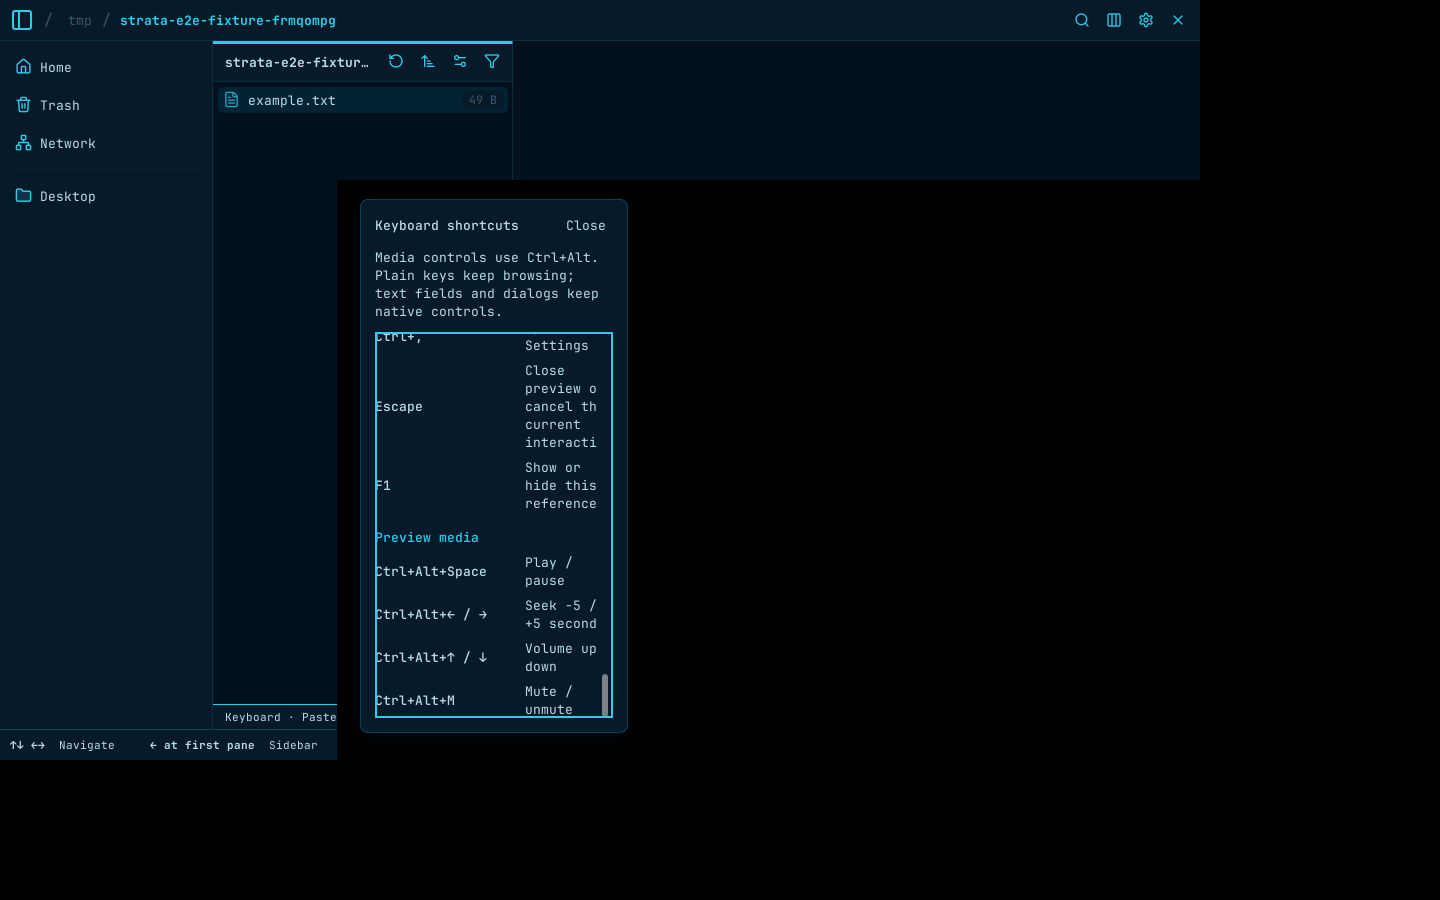
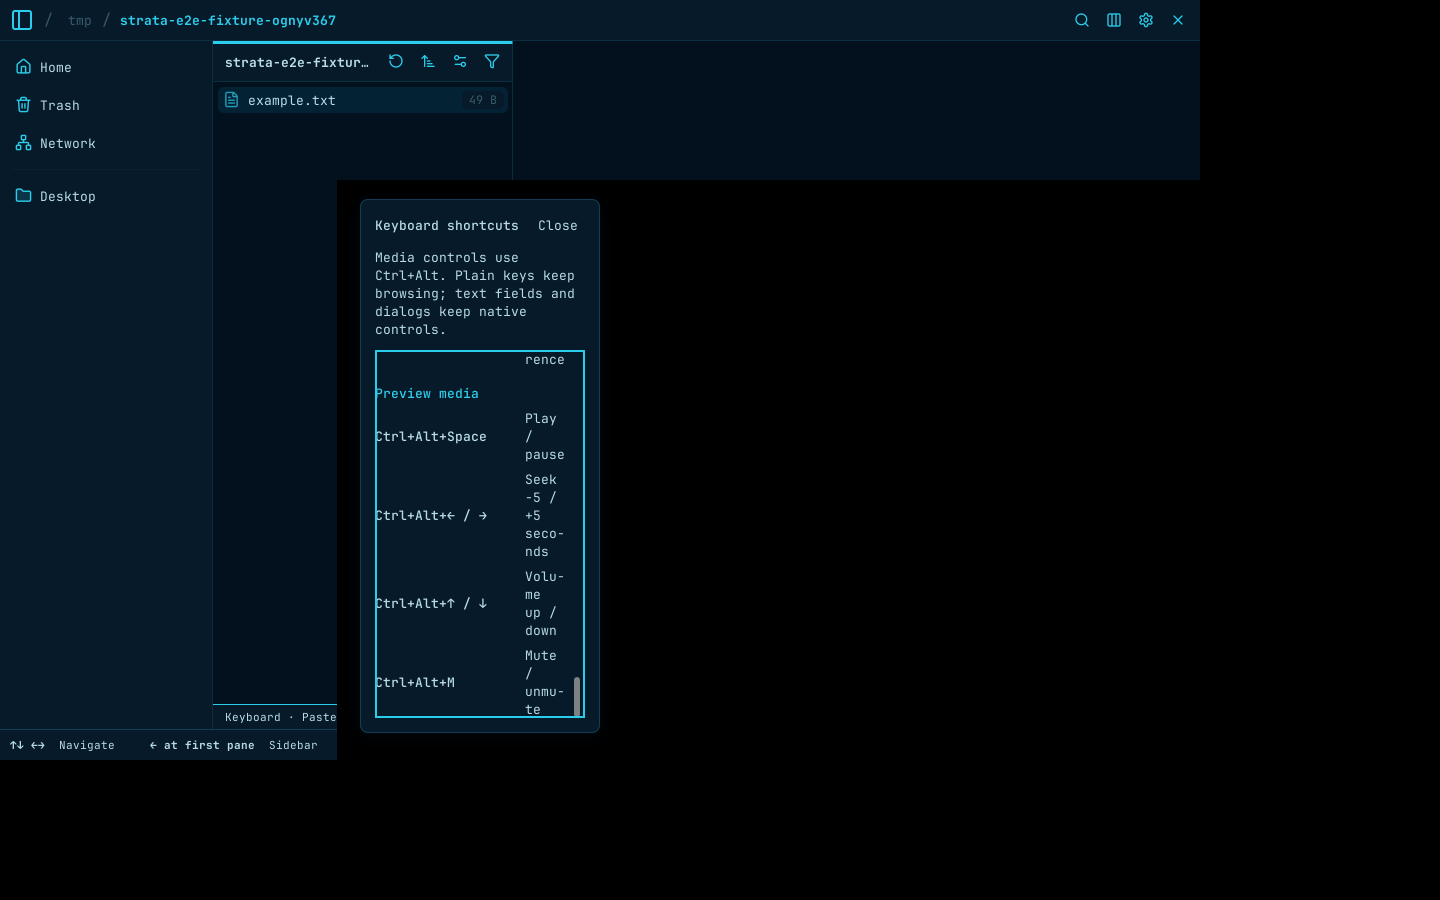
fix(shortcuts): keep media reference text clear of its scrollbar
Allow long descriptions to wrap within the F1 viewport and verify the documented media bindings remain unobscured. Refs #885.

Changed region(s): [[0.25, 0.2178, 0.4375, 0.84], [0.25, 0.7156, 0.3125, 0.7778], [0.1875, 0.0, 0.25, 0.0311]]

diff --git a/tests/e2e/scenarios/test_dialogs_and_menus.py b/tests/e2e/scenarios/test_dialogs_and_menus.py
@@ -281,6 +281,13 @@ def test_the_shortcut_reference_opens_and_closes(strata):
     )
     for chord in ["Ctrl+Alt+Space", "Ctrl+Alt+← / →", "Ctrl+Alt+↑ / ↓", "Ctrl+Alt+M"]:
         assert strata.window.find(role="label", name=chord, rendered=False) is not None
+    strata.keyboard.press("Tab")
+    strata.keyboard.press("End")
+    description = strata.window.find(role="label", name="Seek −5 / +5 seconds", rendered=False)
+    scroll = next(node for node in description.ancestors() if node.role == "scroll pane")
+    scrollbar = scroll.find(role="scroll bar")
+    bounds = description.window_bounds()
+    assert bounds.x + bounds.width <= scrollbar.window_bounds().x
 
     strata.keyboard.press("Escape")
     strata.wait(

diff --git a/src/ui/shortcut_footer.rs b/src/ui/shortcut_footer.rs
@@ -501,6 +501,7 @@ fn append_section(parent: &gtk::Box, title: &str, shortcuts: &[Shortcut]) {
             .xalign(0.0)
             .hexpand(true)
             .wrap(true)
+            .wrap_mode(gtk::pango::WrapMode::WordChar)
             .build();
         action.add_css_class("shortcut-reference-description");
         row.append(&key);
